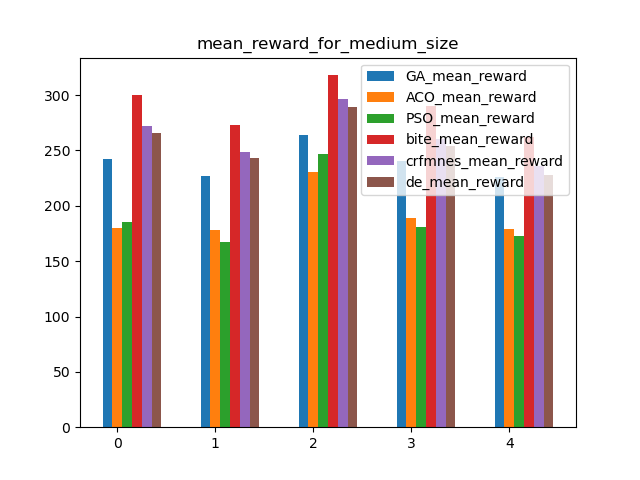
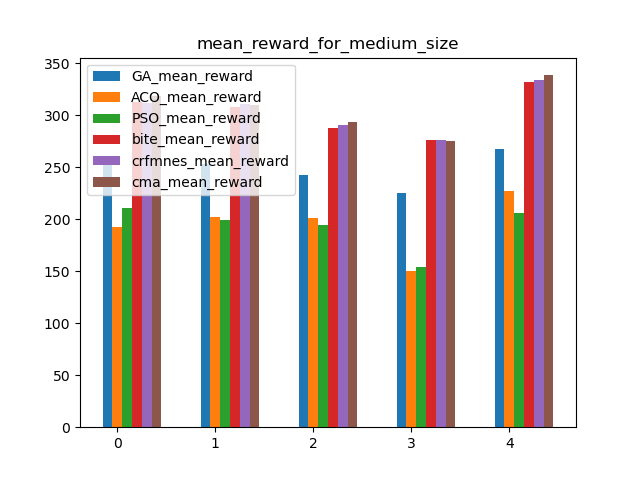
added cma-es

diff --git a/evaluate.py b/evaluate.py
@@ -26,7 +26,7 @@ from ga import GA
 from aco import ACO
 from pso import PSO
 from fcmaesopt import Optimizer
-from fcmaes.optimizer import Bite_cpp, De_cpp, Crfmnes_cpp
+from fcmaes.optimizer import Bite_cpp, Cma_cpp, Crfmnes_cpp
 
 import multiprocessing as mp
 import seaborn as sns
@@ -49,16 +49,25 @@ class NestablePool(multiprocessing.pool.Pool):
         super(NestablePool, self).__init__(*args, **kwargs)
 
 class Env():
-    def __init__(self, vehicle_num, target_num, map_size, visualized=True, time_cost=None, repeat_cost=None):
+    def __init__(self, vehicle_num, target_num, map_size, visualized=True, 
+                 time_cost=None, repeat_cost=None, seed = None):
+        if not seed is None:
+            random.seed(seed)
         self.vehicles_position = np.zeros(vehicle_num,dtype=np.int32)
         self.vehicles_speed = np.zeros(vehicle_num,dtype=np.int32)
         self.targets = np.zeros(shape=(target_num+1,4),dtype=np.int32)
         if vehicle_num==5:
             self.size='small'
+            self.evals = 1000000
+            self.retries = 1
         if vehicle_num==10:
             self.size='medium'
+            self.evals = 1500000
+            self.retries = 1
         if vehicle_num==15:
             self.size='large'
+            self.evals = 2000000
+            self.retries = 1
         self.map_size = map_size
         self.speed_range = [10, 15, 30]
         #self.time_lim = 1e6
@@ -177,22 +186,21 @@ def evaluate(vehicle_num, target_num, map_size):
         size='large'
     num = 5
     onum = 6
-    dim = vehicle_num + target_num - 2
     re_opt = []
     for _ in range(onum):       
         re_opt.append([[] for i in range(num)])
     for i in range(num):
-        env = Env(vehicle_num,target_num,map_size,visualized=True)
+        env = Env(vehicle_num,target_num,map_size,visualized=True,seed=37*i+13)
         for j in range(num):
             opt_result = []
             p=NestablePool(mp.cpu_count())
             opt = [GA(vehicle_num,env.vehicles_speed,target_num,env.targets,env.time_lim),
                    ACO(vehicle_num,target_num,env.vehicles_speed,env.targets,env.time_lim),
                    PSO(vehicle_num,target_num ,env.targets,env.vehicles_speed,env.time_lim),
-                   Optimizer(vehicle_num,env.vehicles_speed,target_num,env.targets,env.time_lim, Bite_cpp(2000000)),
-                   Optimizer(vehicle_num,env.vehicles_speed,target_num,env.targets,env.time_lim, Crfmnes_cpp(2000000)),
-                   # we use mixed integer enhancement for fcmaes differential evolution (parameter ints)
-                   Optimizer(vehicle_num,env.vehicles_speed,target_num,env.targets,env.time_lim, De_cpp(2000000, ints=[True]*dim))]
+                   Optimizer(env,vehicle_num,env.vehicles_speed,target_num,env.targets,env.time_lim, Bite_cpp(env.evals)),
+                   Optimizer(env,vehicle_num,env.vehicles_speed,target_num,env.targets,env.time_lim, Crfmnes_cpp(env.evals, popsize=128)),
+                   # we have to disable premature termination of CMA-ES
+                   Optimizer(env,vehicle_num,env.vehicles_speed,target_num,env.targets,env.time_lim, Cma_cpp(env.evals, popsize=128, stop_hist=0))]
             for k in range(onum):       
                 opt_result.append(p.apply_async(opt[k].run))
             p.close()

diff --git a/fcmaesopt.py b/fcmaesopt.py
@@ -50,7 +50,8 @@ def fitness_(gene, vehicle_num, vehicles_speed, target_num, targets, time_lim, m
     return reward
 
 class Optimizer():
-    def __init__(self, vehicle_num, vehicles_speed, target_num, targets, time_lim, opt):
+    def __init__(self, env, vehicle_num, vehicles_speed, target_num, targets, time_lim, opt):
+        self.env = env
         self.optname = opt.name
         self.opt = opt
         self.vehicle_num = vehicle_num
@@ -65,26 +66,28 @@ class Optimizer():
                 self.map[j, i] = self.map[i, j] = np.linalg.norm(
                     targets[i, :2]-targets[j, :2])
         self.workers = int(mp.cpu_count()/4) # leave threads for other tests
-        self.retries = 1
-        
+        self.retries = env.retries
+        self.upper = np.array([self.target_num] * (self.vehicle_num-1) + list(range(self.target_num, 1, -1)))-1E-9
+        self.dim = len(self.upper)
+       
     def name(self):
         return self.optname.split()[0]
+    
+    def get_gene(self, x):
+        return (x*self.upper).astype(int)
 
-    def fitness(self, gene):   
-        return -fitness_(gene.astype(int), self.vehicle_num, self.vehicles_speed, 
+    def fitness(self, x):   
+        return -fitness_(self.get_gene(x), self.vehicle_num, self.vehicles_speed, 
                            self.target_num, self.targets, self.time_lim, self.map)
         
     def run(self):
         try:
             print(self.name() + " start, pid: %s" % os.getpid())
             start_time = time.time()
-            
-            upper = np.array([self.target_num] * (self.vehicle_num-1) + list(range(self.target_num, 1, -1)))-1E-9
-            dim = self.vehicle_num + self.target_num - 2
-            bounds = Bounds([0] * dim, upper) 
+            bounds = Bounds([0] * self.dim, [1] * self.dim) 
             res = retry.minimize(self.fitness, bounds, optimizer=self.opt, 
                                  num_retries=self.workers*self.retries, workers=self.workers, logger=None)
-            gene = res.x.astype(int)
+            gene = self.get_gene(res.x)
     
             ins = np.zeros(self.target_num+1, dtype=np.int32)
             seq = np.zeros(self.target_num, dtype=np.int32)

diff --git a/test_mode.py b/test_mode.py
@@ -99,18 +99,21 @@ class Fitness:
             for j in range(i):
                 self.map[j, i] = self.map[i, j] = np.linalg.norm(
                     targets[i, :2]-targets[j, :2])
-        upper = np.array([target_num] * (vehicle_num-1) + list(range(target_num, 1, -1)))-1E-9
-        self.bounds = Bounds([0] * self.dim, upper) 
+        self.upper = np.array([target_num] * (vehicle_num-1) + list(range(target_num, 1, -1)))-1E-9
+        self.bounds = Bounds([0] * self.dim, [1] * self.dim) 
 
-    def __call__(self, gene):   
-        return fitness_(gene.astype(int), self.vehicle_num, self.vehicles_speed, 
+    def get_gene(self, x):
+        return (x*self.upper).astype(int)
+
+    def __call__(self, x):   
+        return fitness_(self.get_gene(x), self.vehicle_num, self.vehicles_speed, 
                            self.target_num, self.targets, self.time_lim, self.map)
 
 # deliver both MO and SO problem instances for comparison
-def get_fitness(vehicle_num, target_num, map_size):
-    env = Env(vehicle_num,target_num,map_size,visualized=True)
+def get_fitness(vehicle_num, target_num, map_size, seed = None):
+    env = Env(vehicle_num,target_num,map_size,visualized=True, seed=seed)
     return Fitness(vehicle_num,env.vehicles_speed,target_num,env.targets,env.time_lim), \
-           Optimizer(vehicle_num,env.vehicles_speed,target_num,env.targets,env.time_lim, Bite_cpp(0))
+           Optimizer(env, vehicle_num,env.vehicles_speed,target_num,env.targets,env.time_lim, Bite_cpp(0))
 
 def main():
     try:      
@@ -122,7 +125,7 @@ def main():
         # medium scale
         #mo_problem, so_problem = get_fitness(10,60,1e4)
         # large scale       
-        mo_problem, so_problem = get_fitness(15,90,1.5e4)
+        mo_problem, so_problem = get_fitness(15,90, 1.5e4, 65)
         
         mo_fun = mode.wrapper(mo_problem, nobj, interval = 1E12)
         so_fun = wrapper(so_problem.fitness)

diff --git a/test_fcmaes.py b/test_fcmaes.py
@@ -12,18 +12,17 @@ from fcmaes.optimizer import wrapper
 from evaluate import Env
 import multiprocessing as mp
 from fcmaesopt import Optimizer
-from fcmaes.optimizer import Bite_cpp, De_cpp, Crfmnes_cpp
+from fcmaes.optimizer import Bite_cpp, Cma_cpp, Crfmnes_cpp
 
-def get_optimizer(vehicle_num, target_num, map_size, opt):
-    env = Env(vehicle_num,target_num,map_size,visualized=True)
-    return Optimizer(vehicle_num,env.vehicles_speed,target_num,env.targets,env.time_lim, opt)
+def get_optimizer(vehicle_num, target_num, map_size, opt, seed = None):
+    env = Env(vehicle_num,target_num,map_size,visualized=True,seed=seed)
+    return Optimizer(env, vehicle_num,env.vehicles_speed,target_num,env.targets,env.time_lim, opt)
 
 def optimize(vehicle_num, target_num, map_size):
     evals = 2000000
-    dim = vehicle_num + target_num - 2
-    optimizer = get_optimizer(vehicle_num, target_num, map_size, Bite_cpp(evals))
-    #optimizer = get_optimizer(vehicle_num, target_num, map_size, Crfmnes_cpp(evals))
-    #optimizer = get_optimizer(vehicle_num, target_num, map_size, De_cpp(evals, ints=[True]*dim))
+    #optimizer = get_optimizer(vehicle_num, target_num, map_size, Bite_cpp(evals), 65)
+    #optimizer = get_optimizer(vehicle_num, target_num, map_size, Crfmnes_cpp(evals, popsize=128), 65)
+    optimizer = get_optimizer(vehicle_num, target_num, map_size, Cma_cpp(evals, popsize=128, stop_hist=0), 65)
     optimizer.fitness = wrapper(optimizer.fitness)
     optimizer.workers = mp.cpu_count()
     task_assignment, time =  optimizer.run()

diff --git a/readme.md b/readme.md
@@ -15,7 +15,7 @@
 3) Adds standard continuous optimization algorithms: 
     - [BiteOpt](https://github.com/avaneev/biteopt) from Aleksey Vaneev
     - [CR-FM-NES](https://arxiv.org/abs/2201.11422) from Masahiro Nomura
-    - [fcmaes DE](https://github.com/dietmarwo/fast-cma-es) from Dietmar Wolz
+    - [CMA-ES](https://cma-es.github.io/) from N. Hansen
     all using the same fitness function as GA.py. 
     These are by far the simplest implementations, only the fitness function needs
     to be coded, since we can use algorithms from the continuous optimization library 
@@ -31,7 +31,7 @@
 6) Added test_fcmaes.py where you can monitor the progress of fcmaes algorithms applied to the problem.
 
 7) Added test_mode.py where you can monitor the progress of fcmaes-MODE applied to the problem and compare it
-   to BiteOpt for the same instance. fcmaes-MODE is a multi-objective optimizer applied to a 
+   for the same instance. fcmaes-MODE is a multi-objective optimizer applied to a 
    multi-objective variant of the problem.
    Objectives are: reward (to be maximized), maximal time (to be minimized), energy (to be minimized).
    The maximal time constraint from the single objective case is still valid.
@@ -54,7 +54,7 @@ Please refer to the paper to see more detail.
 
 Xiao, K., Lu, J., Nie, Y., Ma, L., Wang, X., Wang, G.: A Benchmark for Multi-UAV Task Assignment of an Extended Team Orienteering Problem. arXiv preprint **[ arXiv:2009.00363](https://arxiv.org/abs/2009.00363)**  (2020)
 
-See [fcmaes](https://github.com/dietmarwo/fast-cma-es) and [BiteOpt](https://github.com/avaneev/biteopt) for details regarding BiteOpt parallel retry. 
+See [fcmaes](https://github.com/dietmarwo/fast-cma-es) and [BiteOpt](https://github.com/avaneev/biteopt) for details regarding fcmaes parallel retry and BiteOpt. 
 
 ## Usage
 
